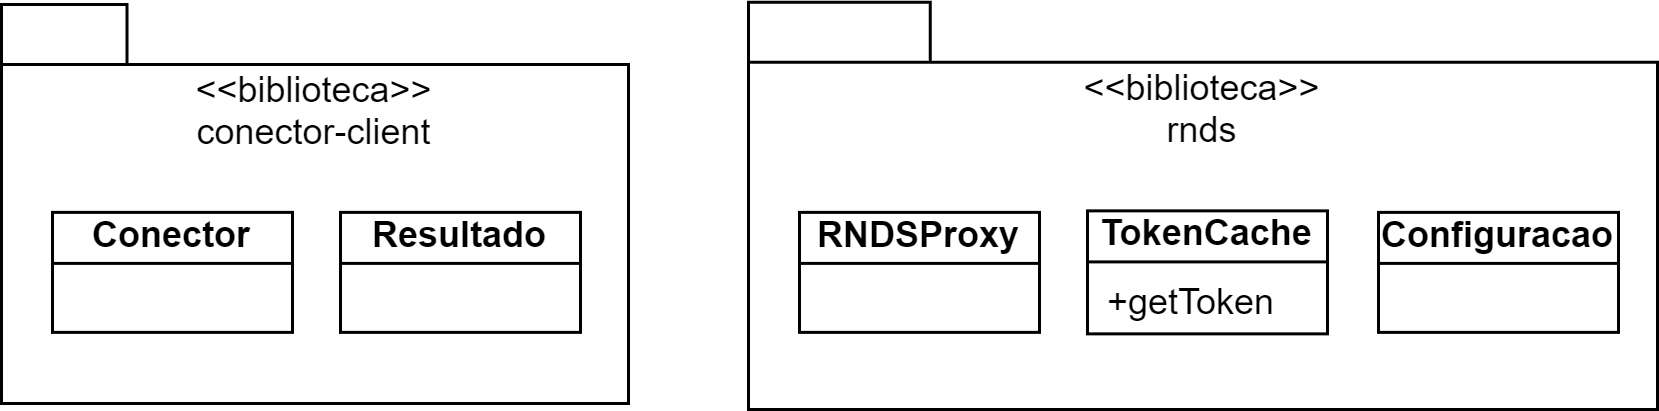
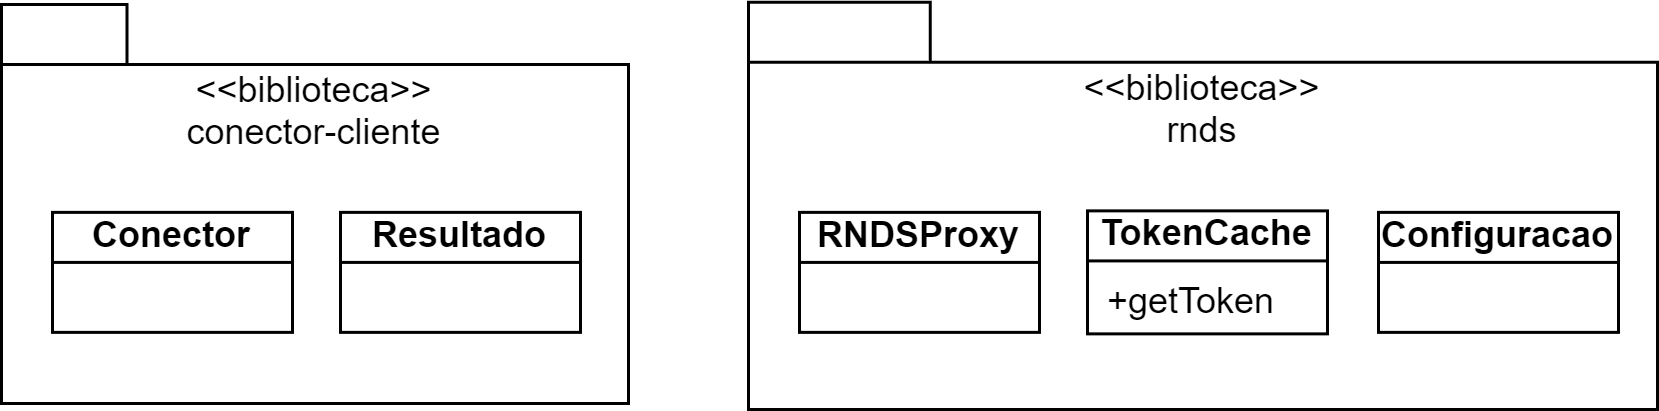
conector

Changed region(s): [[0.0922, 0.292, 0.2767, 0.3504], [0.6763, 0.7007, 0.7685, 0.7883], [0.6456, 0.6131, 0.7993, 0.6423]]

diff --git a/guia/docs/conector.md b/guia/docs/conector.md
@@ -262,7 +262,37 @@ pelo detalhamento dos dados a serem enviados, ou seja, a discussão do [Modelo C
 
 ## Implementação
 
-O _design_ organiza o código, mas não impôs restrições, por exemplo, a classe `Conector` deve encapsular a comunicacao do SIS com Conector e, conforme destacado, isto pode ser feito de inúmeras formas.
+O _design_ acima organiza o código, mas não impôe restrições ou define detalhes pela ausência de um cenário concreto de um estabelecimento de saúde, conforme discutido abaixo, tanto para as bibliotecas identificadas quanto para as funções princiais.
 
-Em um cenário onde a nuvem da Amazon é empregada, apenas para exemplificar, o microsserviço Conector pode ser implementado por uma Lambda Function exposta por meio do serviço API Gateway. Neste cenário, a classe `Conector` terá que fazer requisições _https_ para implementar o método `Conector.notificar(Resultado)`.
-Naturalmente, a nuvem da Amazon pode não ser uma opção e, neste caso, outra estratégia pode ser empregada, conforme o que melhor se alinha às restrições do estabelecimento de saúde em questão.
+### conector-cliente (aws)
+
+A classe `Conector` deve encapsular a comunicação do SIS com Conector e, conforme destacado, isto pode ser feito de inúmeras formas.
+
+Em um cenário onde a nuvem da Amazon é empregada, apenas para exemplificar, o microsserviço Conector pode ser implementado por uma Lambda Function exposta por meio do serviço API Gateway. Neste cenário, a a implementação do método `Conector.notificar(Resultado)` terá que fazer requisições _https_ para o _endpoint_ exposto pelo serviço API Gateway, qe serão redirecionadas para a Lambda Function corresondente.
+
+### conector-cliente (arquivo)
+
+Naturalmente, a nuvem da Amazon pode não ser uma opção e, neste caso, outra estratégia pode ser empregada, conforme o que melhor se alinha
+ao contexto do estabelecimento de saúde em questão. Por exemplo, o cenário no qual o laboratório não emprega um SIS em execução em uma nuvem, mas em
+sua própria infraestrutura.
+
+Adicionalmente, o SIS já oferece recurso para exportar em documento XML,
+por exemplo, um laudo, com esquema bem-definido. Neste cenário não seria mais aproriado monitorar um diretório e a cada arquivo ali depositado, disparar o caso de uso _Enviar resultado de exame_? Observe que o SIS
+existente, neste cenário hipotético, não necessariamente sofre alteração.
+
+Apenas como informação adicional, a biblioteca [Chokidar](https://www.npmjs.com/package/chokidar) tem como foco monitorar arquivos e diretórios de forma eficiente, conforme sua documentação, e já foi baixada mais de 30 milhões de vezes "nesta semana". Naturalmente é uma opção para implementar, em JavaScript, o que foi atribuído à biblioteca `conector-cliente`, neste estabelecimento fictício.
+
+### rnds (biblioteca)
+
+Às funções atribuídas a esta biblioteca são bem específicas e podem ser encapsuladas, independente do cenário do estabelecimento de saúde em questão. É o que é feito por meio da HAPI FHIR API, dentre outras opções como a biblioteca [rnds](https://www.npmjs.com/package/rnds).
+
+Considerações feitas, o caso de uso _Obter token_ está implementado, enquanto _Enviar resultado de exame_, apenas parcialmente, em JavaScript por meio do projeto [rnds](https://www.npmjs.com/package/rnds) (projeto _open source_). Observe que o envio propriamente dito está implementado, enquanto as demais funções, filtrar, mapear e outras, tendo em vista a dependência do contexto de um estabelecimento de saúde real, não.
+
+### Funções principais
+
+As estratégias adotadas nas bibliotecas acima dificilmente podem ser replicadas aqui na implementação das funções ditas principais, como filtrar e mapear, por exemplo.
+
+Quando em cenário anterior foi dito que um SIS hipotético é capaz de exportar um documento XML pertinente a um resultado de exame, tem-se uma função útil e que viabiliza o acréscimo do Conector sem necessidade de alteração do SIS. Contudo, o esquema empregado pelo SIS, provavelmente, é diferente daquele estabelecido pelo modelo computacional e também pelo informacional correspondente. Em consequência, não há como implementar uma função _filtrar_ de forma genérica, mas específica e caso por caso.
+
+Apesar de não ser viável uma implementação que possa ser reutilizada, é possível indicar ferramentas úteis aos desenvolvedores, por exemplo,
+que realizam operações sobre documentos XML. Observe que, mesmo neste exemplo, a sugestão pode não se aplicar, pois um formato binário próprio pode ser empregado pelo SIS, o que torna a indicação pertinente à XML irrelevante.
